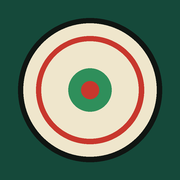
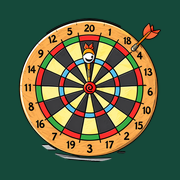
Add files via upload

diff --git a/index.html b/index.html
@@ -1,5 +1,5 @@
 <!doctype html><html><head><meta charset=utf8><meta name=viewport content="width=device-width,initial-scale=1,viewport-fit=cover"><style>:root{color-scheme:light;box-sizing:border-box;padding-top:env(safe-area-inset-top,0px);padding-bottom:env(safe-area-inset-bottom,0px)}html{scroll-padding-top:env(safe-area-inset-top,0px)}body{margin:0;padding:0;font:14px -apple-system,BlinkMacSystemFont,sans-serif;background:#fff;color:#000}img{max-width:100%}[hidden]:not([hidden=until-found i]){display:none!important}</style><title>Logan's Pub 6 Teamplanner</title>
-<meta name="theme-color" media="(prefers-color-scheme: light)" content="#15493A"><meta name="theme-color" media="(prefers-color-scheme: dark)" content="#0B4545"><link rel="manifest" href="manifest.webmanifest"><link rel="apple-touch-icon" href="apple-touch-icon.png"><meta name="apple-mobile-web-app-capable" content="yes"><meta name="apple-mobile-web-app-title" content="Logan's Pub 6">
+<meta name="theme-color" media="(prefers-color-scheme: light)" content="#15493A"><meta name="theme-color" media="(prefers-color-scheme: dark)" content="#0B4545"><link rel="icon" type="image/png" href="icon-192.png"><link rel="manifest" href="manifest.webmanifest"><link rel="apple-touch-icon" href="apple-touch-icon.png"><meta name="apple-mobile-web-app-capable" content="yes"><meta name="apple-mobile-web-app-title" content="Logan's Pub 6">
 </head><body>
 <link rel="preconnect" href="https://fonts.googleapis.com">
 <link rel="preconnect" href="https://fonts.gstatic.com" crossorigin>
@@ -69,13 +69,7 @@ a { color: var(--accent); }
 /* header */
 .top { background: var(--brand); color: var(--brand-ink); padding-block: 18px 16px; }
 .top .in { display: flex; align-items: center; gap: 14px; }
-.board {
-  flex: none; width: 46px; height: 46px; border-radius: 50%;
-  background:
-    radial-gradient(circle, var(--board-red) 0 8%, var(--board-green) 8% 18%, transparent 18% 61%, var(--board-red) 61% 68%, transparent 68% 89%, var(--board-green) 89% 100%),
-    repeating-conic-gradient(var(--board-cream) 0 9deg, var(--board-black) 9deg 18deg);
-  box-shadow: 0 0 0 2px var(--board-black);
-}
+.board { flex: none; width: 54px; height: 54px; display: block; object-fit: contain; }
 .top h1 { font: 700 30px/1 var(--font-display); letter-spacing: .01em; text-wrap: balance; }
 .top .sub { font-size: 13px; opacity: .8; margin-top: 4px; }
 
@@ -216,7 +210,7 @@ main { padding-top: 18px; display: flex; flex-direction: column; gap: 16px; }
 </style>
 
 <div class="top"><div class="in">
-  <div class="board" aria-hidden="true"></div>
[1 lines of base64/hex data omitted]
   <div>
     <h1>Logan's Pub 6</h1>
     <p class="sub" id="season">Wie gooit er mee? Seizoen 2026-2027</p>
